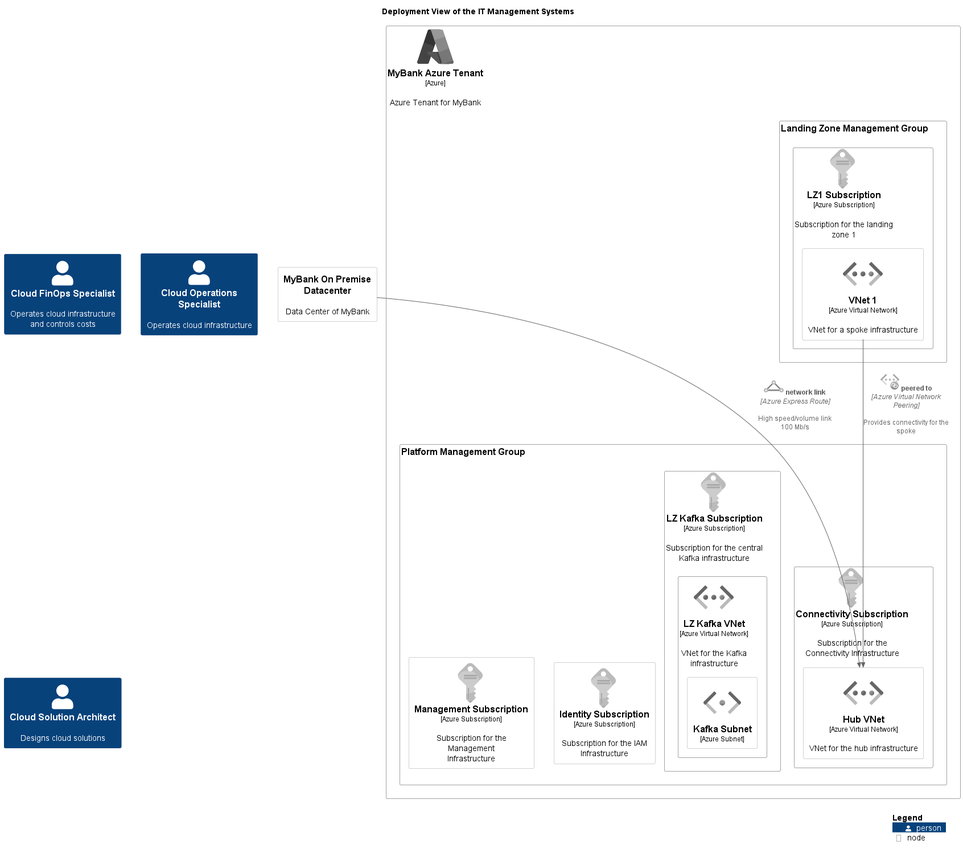
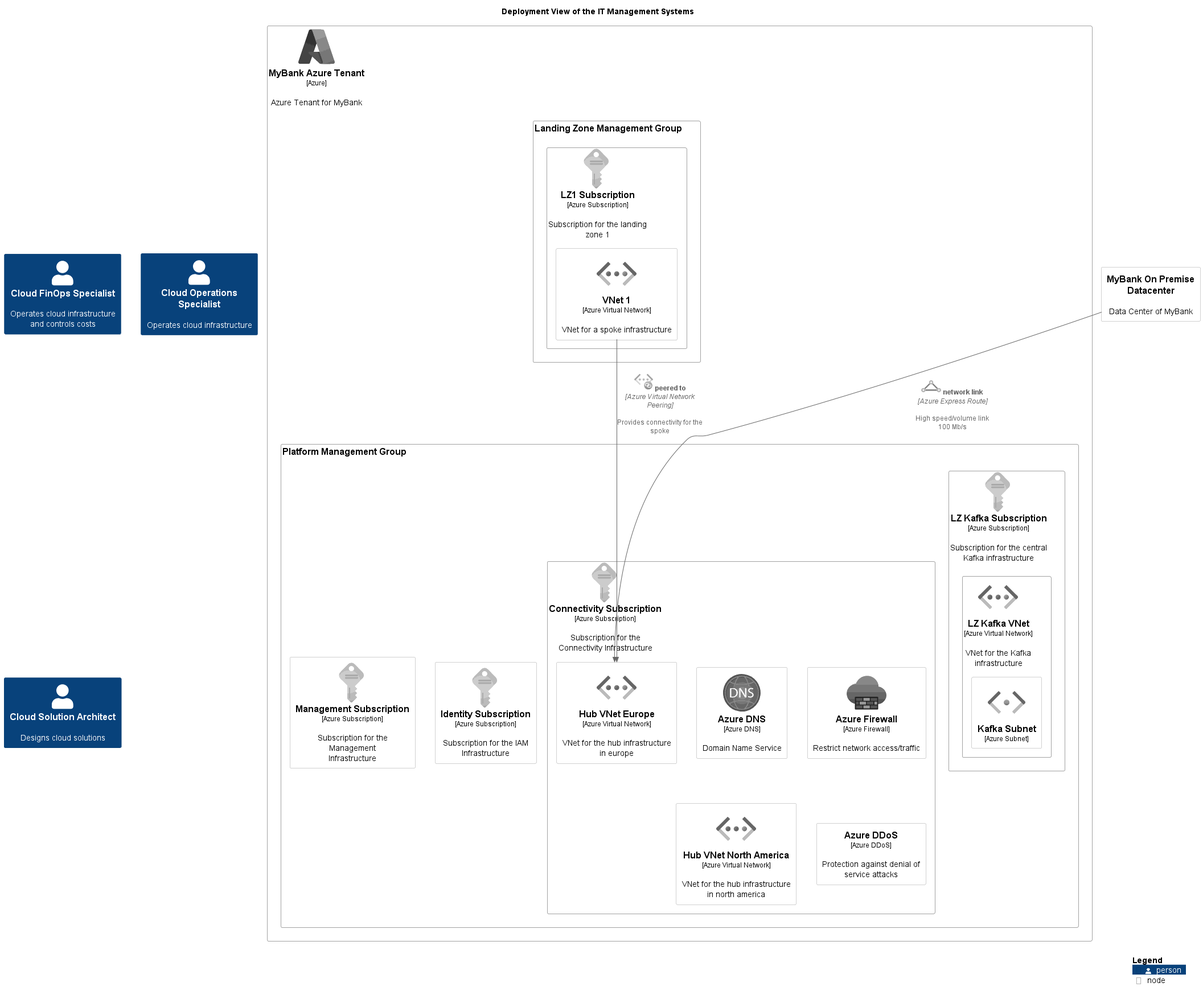
updated model

diff --git a/docs/reports/elements-report.md b/docs/reports/elements-report.md
@@ -8,11 +8,14 @@
 ----|-----|------|---------|-------------|-------|------
  :mybank.data-management/context-boundary-contained-in-mybank-plc | contained-in | :contained-in |  |  |  | 
  :mybank.data-management/big-data-analytics-system | Big Data Analytics | :system |  | Advanced analytics for predictive modeling. | Java, Hadoop, Spark | 
+ :mybank.it-management.azure/alz1-vnet1-contained-in-alz1-subscription | contained-in | :contained-in |  |  |  | 
  :mybank.data-management/big-data-analytics-system-contained-in-context-boundary | contained-in | :contained-in |  |  |  | 
- :mybank.it-management.azure/lz1-vnet1 | VNet 1 | :node |  | VNet for a spoke infrastructure | Azure Virtual Network | #{"generic" "cloud"}
+ :mybank.it-management.azure/plz-kafka-subscription-contained-in-platform-management-group | contained-in | :contained-in |  |  |  | 
  :mybank.organization.hr/recruiting-contained-in-human-resources | contained-in | :contained-in |  |  |  | 
  :mybank.digital-banking/mobile-app-contained-in-internet-banking-system | contained-in | :contained-in |  |  |  | 
+ :mybank.it-management.azure/landing-zone-management-group | Landing Zone Management Group | :node |  |  |  | 
  :mybank.security/disaster-recovery-system | Disaster Recovery | :system |  | Ensures business continuity in case of a disaster. | AWS Backup, DRaaS | 
+ :mybank.it-management.azure/plz-kafka-subscription | LZ Kafka Subscription | :node |  | Subscription for the central Kafka infrastructure | Azure Subscription | #{"cloud" "platform"}
  :mybank/email-system | E-mail System | :system |  | The internal Microsoft Exchange email system. |  | 
  :mybank.digital-banking/database | Database | :container | :database | Stores user registration, authentication, and access logs. | Datomic | 
  :mybank.financial-management/expense-management-system | Expense Management | :system |  | Tracks and manages expenses. | Concur | 
@@ -26,13 +29,13 @@
  :mybank.project-management/dev-platforms | Development Platforms | :system |  | Tools for software development, testing, and deployment. | Jenkins, GitLab | 
  :mybank.customer-channels/contact-center-system-contained-in-context-boundary | contained-in | :contained-in |  |  |  | 
  :mybank.payment/payment-gateway-system-uses-transaction-processing-system | validates and processes payments using | :request |  |  |  | 
- :mybank.it-management.azure/hub-vnet | Hub VNet | :node |  | VNet for the hub infrastructure | Azure Virtual Network | #{"cloud" "platform"}
  :mybank.it-management/aws-unit | AWS Platform | :org-unit |  | Responsible for the AWS platform. |  | 
  :mybank.it-management/cloud-operations-specialist-role-in-aws-unit | role in | :role-in |  | Operates the AWS platform |  | 
+ :mybank.it-management.azure/alz1-subscription | LZ1 Subscription | :node |  | Subscription for the landing zone 1 | Azure Subscription | #{"cloud" "platform"}
+ :mybank.it-management.azure/connectivity-subscription | Connectivity Subscription | :node |  | Subscription for the Connectivity Infrastructure | Azure Subscription | #{"cloud" "platform"}
  :mybank.digital-banking/digital-wallets-system | Digital Wallets | :system |  | Supports digital wallet integration and mobile payments. | Node.js and Express | 
  :mybank.concepts/customer-performs-transfer | performs | :rel |  |  |  | 
  :mybank.digital-banking/context-boundary | Digital Banking | :context-boundary |  | Enables online and mobile banking services for customers. |  | 
- :mybank.it-management.azure/platform-management-group | Platform Management Group | :node |  |  |  | 
  :mybank.security/identity-access-management-system | Identity and Access Management (IAM) | :system |  | Manages secure access to systems and data. | OAuth 2.0, OpenID Connect | 
  :mybank.digital-banking/api-application-uses-email-system | sends e-mail using | :request |  |  |  | 
  :mybank.compliance/risk-management-system-contained-in-context-boundary | contained-in | :contained-in |  |  |  | 
@@ -69,7 +72,7 @@
  :mybank.project-management/dev-platforms-contained-in-context-boundary | contained-in | :contained-in |  |  |  | 
  :mybank.concepts/transfer-between-account | between | :rel |  |  |  | 
  :mybank.concepts/customer-has-account | has | :has |  |  |  | 
- :mybank.it-management.azure/lz1-subscription-contained-in-landing-zone-management-group | contained-in | :contained-in |  |  |  | 
+ :mybank.it-management.azure/dns-contained-in-connectivity-subscription | contained-in | :contained-in |  |  |  | 
  :mybank.it-management.azure/management-subscription | Management Subscription | :node |  | Subscription for the Management Infrastructure | Azure Subscription | #{"cloud" "platform"}
  :mybank.organization/corporate-customers | Corporate Customers | :org-unit |  |  |  | 
  :mybank.it-management/cloud-solution-architect-role-in-aws-unit | role in | :role-in |  | Architects solutions on the AWS platform |  | 
@@ -94,11 +97,10 @@
  :mybank.organization/my-bank-organization | My Bank | :organization |  | My Bank Company |  | 
  :mybank.customer-channels/context-boundary-contained-in-mybank-plc | contained-in | :contained-in |  |  |  | 
  :mybank.it-management/context-boundary | IT Management | :context-boundary |  | Manages IT infrastructure, cloud resources, and system monitoring. |  | 
- :mybank.it-management.azure/lz-kafka-vnet | LZ Kafka VNet | :node |  | VNet for the Kafka infrastructure | Azure Virtual Network | #{"cloud" "platform"}
  :mybank/integration-middleware-context-contained-in-mybank-plc | contained-in | :contained-in |  |  |  | 
  :mybank.it-management/azure-unit-responsible-for-azure-tenant | responsible for | :responsible-for |  |  |  | 
+ :mybank.it-management.azure/hub-vnet-europe | Hub VNet Europe | :node |  | VNet for the hub infrastructure in europe | Azure Virtual Network | #{"cloud" "platform"}
  :mybank.compliance/fraud | Fraud | :org-unit |  |  |  | 
- :mybank.it-management.azure/lz-kafka-subscription | LZ Kafka Subscription | :node |  | Subscription for the central Kafka infrastructure | Azure Subscription | #{"cloud" "platform"}
  :mybank.integration-middleware/api-gateway-contained-in-integration-middleware-context | contained-in | :contained-in |  |  |  | 
  :mybank.infrastructure-management/system-monitoring-system | System Monitoring | :system |  | Monitors system performance and health. | Nagios, Prometheus | 
  :mybank.core-banking/transaction-processing-system-contained-in-context-boundary | contained-in | :contained-in |  |  |  | 
@@ -113,13 +115,12 @@
  :mybank.project-management/devops-engineer | DevOps Engineer | :person |  | Develops and operates software systems. |  | 
  :mybank.digital-banking/internet-banking-system-uses-loan-management-system | fetches loan details and payment status from | :request |  |  |  | 
  :mybank.it-management/cloud-operations-specialist | Cloud Operations Specialist | :person |  | Operates cloud infrastructure |  | 
- :mybank.it-management.azure/lz-kafka-subnet-contained-in-lz-kafka-vnet | contained-in | :contained-in |  |  |  | 
  :mybank.digital-banking/accounts-summary-controller-contained-in-api-application | contained-in | :contained-in |  |  |  | 
  :mybank.core-banking/loan-management-system-uses-account-management-system | retrieves customer account information from | :request |  |  |  | 
- :mybank.it-management.azure/lz1-subscription | LZ1 Subscription | :node |  | Subscription for the landing zone 1 | Azure Subscription | #{"cloud" "platform"}
+ :mybank.it-management.azure/firewall-contained-in-connectivity-subscription | contained-in | :contained-in |  |  |  | 
+ :mybank.it-management.azure/plz-kafka-subnet-contained-in-plz-kafka-vnet | contained-in | :contained-in |  |  |  | 
  :mybank.it-management.azure/landing-zone-management-group-contained-in-mybank-tenant | contained-in | :contained-in |  |  |  | 
  :mybank.it-management/cloud-operations-specialist-role-in-azure-unit | role in | :role-in |  | Operates the Azure platform |  | 
- :mybank.concepts/account | Account | :concept |  |  |  | 
  :mybank.digital-banking/sign-in-controller | Sign In Controller | :component |  | Allows users to sign in to the banking system. | Clojure namespace | 
  :mybank/backoffice-staff-uses-loan-management-system | processes loan applications and updates loan status using | :rel |  |  |  | 
  :mybank.compliance/compliance-system | Compliance System | :system |  | Ensures operations comply with regulations. | Java, Spring Boot | 
@@ -136,9 +137,11 @@
  :mybank.organization/corporate-customers-contained-in-my-bank-organization | contained-in | :contained-in |  |  |  | 
  :mybank.compliance/context-boundary-contained-in-mybank-plc | contained-in | :contained-in |  |  |  | 
  :mybank.digital-banking/sign-in-controller-contained-in-api-application | contained-in | :contained-in |  |  |  | 
- :mybank.it-management.azure/connectivity-subscription | Connectivity Subscription | :node |  | Subscription for the Connectivity Infrastructure | Azure Subscription | #{"cloud" "platform"}
+ :mybank.it-management.azure/alz1-vnet1 | VNet 1 | :node |  | VNet for a spoke infrastructure | Azure Virtual Network | #{"generic" "cloud"}
  :mybank.digital-banking/single-page-app | Single-Page Application | :container |  | Provides internet banking functionality to customers via their web browser. | ClojureScript and Re-Frame | 
  :mybank.digital-banking/web-app | Web Application | :container |  | Delivers the static content and the internet banking single-page application. | Clojure and Luminus | 
+ :mybank.concepts/account | Account | :concept |  | Records the financial transactions between a customer and a bank |  | 
+ :mybank.it-management.azure/hub-vnet-north-america-contained-in-connectivity-subscription | contained-in | :contained-in |  |  |  | 
  :mybank.customer-channels/atm-uses-transaction-processing-system | validates transaction | :rel |  |  |  | 
  :mybank.infrastructure-management/cloud-services-system-contained-in-context-boundary | contained-in | :contained-in |  |  |  | 
  :mybank.digital-banking/api-application | API Application | :container |  | Provides internet banking functionality via a RESTful JSON/HTTPS API. | Clojure and Liberator | 
@@ -147,20 +150,18 @@
  :mybank.user-role/backoffice-staff | Backoffice Staff | :person |  | Administration and support staff within the bank. |  | 
  :mybank.it-management/azure-unit | Azure Platform | :org-unit |  | Responsible for the Azure platform. |  | 
  :mybank.it-management/it-management-org | IT Management | :org-unit |  | Responsible for the IT platform of MyBank |  | 
+ :mybank.it-management.azure/ddos-protection | Azure DDoS | :node |  | Protection against denial of service attacks | Azure DDoS | #{"cloud" "platform"}
  :mybank.it-management.azure/identity-subscription-contained-in-platform-management-group | contained-in | :contained-in |  |  |  | 
  :mybank.investments/investments-org | Investments | :org-unit |  |  |  | 
  :mybank.organization/human-resources | Human Resources | :org-unit |  | Central management of human resources |  | 
  :mybank.it-management/cloud-solution-architect | Cloud Solution Architect | :person |  | Designs cloud solutions |  | 
  :mybank.digital-banking/sign-in-controller-uses-security-component | uses | :request |  |  |  | 
- :mybank.it-management.azure/mybank-tenant | MyBank Azure Tenant | :node |  | Azure Tenant for MyBank | Azure | #{"cloud" "platform"}
  :mybank.digital-banking/api-application-contained-in-internet-banking-system | contained-in | :contained-in |  |  |  | 
- :mybank.it-management.azure/spoke-vnet1-peered-to-hub-vnet | peered to | :link |  | Provides connectivity for the spoke | Azure Virtual Network Peering | #{"cloud" "platform"}
  :mybank.core-banking/account-management-system-contained-in-context-boundary | contained-in | :contained-in |  |  |  | 
- :mybank.it-management.azure/lz1-vnet1-contained-in-lz1-subscription | contained-in | :contained-in |  |  |  | 
  :mybank.digital-banking/core-banking-systems-facade-contained-in-api-application | contained-in | :contained-in |  |  |  | 
  :mybank.data-management/context-boundary | Data Management and Analytics | :context-boundary |  | Manages data storage, warehousing, and analytics. |  | 
- :mybank.it-management.azure/landing-zone-management-group | Landing Zone Management Group | :node |  |  |  | 
  :mybank.it-management/aws-unit-contained-in-it-management-org | contained-in | :contained-in |  |  |  | 
+ :mybank.it-management.azure/alz1-subscription-contained-in-landing-zone-management-group | contained-in | :contained-in |  |  |  | 
  :mybank.digital-banking/security-component | Security Component | :component |  | Handles authentication, password changes, etc. | Clojure namespace | 
  :mybank.concepts/corporate-customer-is-a-customer | is a | :is-a |  |  |  | 
  :mybank.organization.personal-customers/internet-banking-contained-in-personal-customers | contained-in | :contained-in |  |  |  | 
@@ -171,6 +172,7 @@
  :mybank.digital-banking/api-application-uses-database | reads from and writes to | :request |  |  | Datalog | 
  :mybank.payment/payment-gateway-system | Payment Gateway | :system |  | Facilitates credit/debit card transactions. | Java, Spring Boot | 
  :mybank.digital-banking/single-page-app-calls-sign-in-controller | makes API calls to | :request |  |  | Transit/HTTPS | 
+ :mybank.it-management.onprem/data-center-europe | MyBank On Premise Datacenter | :node |  | Data Center of MyBank |  | #{"onprem" "platform"}
  :mybank.financial-management/general-ledger-system-contained-in-context-boundary | contained-in | :contained-in |  |  |  | 
  :mybank.organization/marketing | Marketing | :org-unit |  |  |  | 
  :mybank.concepts/personal-customer-is-a-customer | is a | :is-a |  |  |  | 
@@ -182,17 +184,17 @@
  :mybank.project-management/project-management-tools | Project Management Tools | :system |  | Platforms for planning, executing, and tracking projects. | Jira | 
  :mybank.digital-banking/internet-banking-system-uses-email-system | sends e-mail using | :request |  |  |  | 
  :mybank.financial-management/context-boundary | Financial Management | :context-boundary |  | Handles financial accounting, treasury, and expense management. |  | 
+ :mybank.it-management.azure/ddos-protection-contained-in-connectivity-subscription | contained-in | :contained-in |  |  |  | 
  :mybank.concepts/deposit | Deposit | :concept |  | Puts money on account |  | 
  :mybank.core-banking/loan-management-system | Loan Management | :system |  | Manages loan products, applications, and repayments. | Java, Spring Boot | 
  :mybank.concepts/mortgage-is-a-loan | is a | :is-a |  |  |  | 
  :mybank.integration-middleware/esb-contained-in-integration-middleware-context | contained-in | :contained-in |  |  |  | 
+ :mybank.it-management.azure/plz-kafka-subnet | Kafka Subnet | :node |  |  | Azure Subnet | #{"cloud" "platform"}
  :mybank.user-role/corporate-customer | Corporate Customer | :person |  | Corporate Customer of MyBank. |  | 
  :mybank.payment/ach-system | ACH System | :system |  | Processes ACH transactions for direct deposits and bill payments. | Java, Spring Boot, Spring Batch | 
  :mybank.compliance/risk-manager-role-in-risk-management | function | :role-in |  |  |  | 
  :mybank.concepts/corporate-customer | Corporate Customer | :concept |  | An organization requesting services around money |  | 
  :mybank.concepts/withdrawal-from-account | from | :rel |  |  |  | 
- :mybank.it-management.azure/lz-kafka-subscription-contained-in-platform-management-group | contained-in | :contained-in |  |  |  | 
- :mybank.it-management.onprem/data-center | MyBank On Premise Datacenter | :node |  | Data Center of MyBank |  | #{"onprem" "platform"}
  :mybank.human-resources/hris-contained-in-context-boundary | contained-in | :contained-in |  |  |  | 
  :mybank.it-management/cloud-finops-specialist-role-in-aws-unit | role in | :role-in |  | Operations and cost control for the AWS platform |  | 
  :mybank.compliance/fraud-contained-in-compliance-org | contained-in | :contained-in |  |  |  | 
@@ -203,6 +205,7 @@
  :mybank.compliance/fraud-detection-system-contained-in-context-boundary | contained-in | :contained-in |  |  |  | 
  :mybank/email-system-sends-mail-to-personal-customer | sends e-mail to | :send |  |  |  | 
  :mybank.concepts/deposit-to-account | to | :rel |  |  |  | 
+ :mybank.it-management.azure/plz-kafka-vnet | LZ Kafka VNet | :node |  | VNet for the Kafka infrastructure | Azure Virtual Network | #{"cloud" "platform"}
  :mybank.compliance/aml-system | Anti-Money Laundering (AML) System | :system |  | Monitors and prevents money laundering activities. | Python, Scikit-learn | 
  :mybank.project-management/context-boundary | Project Management and Development | :context-boundary |  | Tools for managing projects and software development. |  | 
  :mybank.security/cybersecurity-system-contained-in-context-boundary | contained-in | :contained-in |  |  |  | 
@@ -210,34 +213,38 @@
  :mybank.concepts/bank-has-customer | has | :has |  |  |  | 
  :mybank.concepts/customer-performs-withdrawal | performs | :rel |  |  |  | 
  :mybank.payment/context-boundary-contained-in-mybank-plc | contained-in | :contained-in |  |  |  | 
+ :mybank.it-management.azure/firewall | Azure Firewall | :node |  | Restrict network access/traffic | Azure Firewall | #{"cloud" "platform"}
  :mybank.it-management/cloud-finops-specialist-role-in-azure-unit | role in | :role-in |  | Operations and cost control for the Azure platform |  | 
  :mybank.data-management/business-intelligence-system | Business Intelligence (BI) | :system |  | Provides tools for reporting and data analysis. | Tableau, Python | 
  :mybank.concepts/bank-has-account | provides | :has |  |  |  | 
  :mybank.organization/human-resources-contained-in-my-bank-organization | contained-in | :contained-in |  |  |  | 
+ :mybank.it-management.azure/alz1-vnet1-peered-to-hub-vnet | peered to | :link |  | Provides connectivity for the spoke | Azure Virtual Network Peering | #{"cloud" "platform"}
  :mybank/customer-service-staff-uses-email-system | sends and receives customer communication using | :rel |  |  |  | 
+ :mybank.it-management.azure/dns | Azure DNS | :node |  | Domain Name Service | Azure DNS | #{"cloud" "platform"}
  :mybank.core-banking/context-boundary-contained-in-mybank-plc | contained-in | :contained-in |  |  |  | 
  :mybank.digital-banking/email-component | E-mail Component | :component |  | Sends e-mails to users. | Clojure namespace | 
  :mybank.concepts/customer-requests-loan | requests | :rel |  |  |  | 
  :mybank.digital-banking/internet-banking-system-uses-payment-gateway-system | processes customer payments using | :request |  |  |  | 
- :mybank.it-management.onprem/data-center-links-to-hub-vnet | network link | :link |  | High speed/volume link 100 Mb/s | Azure Express Route | #{"cloud" "platform"}
  :mybank.infrastructure-management/system-monitoring-system-contained-in-context-boundary | contained-in | :contained-in |  |  |  | 
  :mybank.digital-banking/single-page-app-calls-accounts-summary-controller | makes API calls to | :request |  |  | Transit/HTTPS | 
  :mybank.digital-banking/email-component-contained-in-api-application | contained-in | :contained-in |  |  |  | 
  :mybank.human-resources/context-boundary-contained-in-mybank-plc | contained-in | :contained-in |  |  |  | 
+ :mybank.it-management.azure/platform-management-group | Platform Management Group | :node |  |  |  | 
+ :mybank.it-management.azure/hub-vnet-north-america | Hub VNet North America | :node |  | VNet for the hub infrastructure in north america | Azure Virtual Network | #{"cloud" "platform"}
  :mybank.security/context-boundary | Security | :context-boundary |  | Ensures the security of systems and data. |  | 
- :mybank.it-management.azure/lz-kafka-subnet | Kafka Subnet | :node |  |  | Azure Subnet | #{"cloud" "platform"}
  :mybank.data-management/business-intelligence-system-contained-in-context-boundary | contained-in | :contained-in |  |  |  | 
+ :mybank.it-management.azure/plz-kafka-vnet-contained-in-plz-kafka-subscription | contained-in | :contained-in |  |  |  | 
  :mybank.it-management.azure/management-subscription-contained-in-platform-management-group | contained-in | :contained-in |  |  |  | 
  :mybank.customer-channels/atm | ATM | :system |  | Allows customers to withdraw cash. | C++, Java | 
  :mybank.customer-channels/contact-center-system | Contact Center | :system |  | Telephony and customer support systems for call centers. | Genesys, Avaya | 
  :mybank.security/cybersecurity-system | Cybersecurity | :system |  | Protects against cyber threats. | Snort, Suricata | 
+ :mybank.it-management.azure/mybank-tenant | MyBank Azure Tenant | :node |  | Azure Tenant for MyBank | Azure | #{"cloud" "platform"}
  :mybank.compliance/risk-management-system-uses-transaction-processing-system | fetches transaction history and customer data from | :request |  |  |  | 
  :mybank.compliance/aml-system-contained-in-context-boundary | contained-in | :contained-in |  |  |  | 
  :mybank.digital-banking/single-page-app-calls-reset-password-controller | makes API calls to | :request |  |  | Transit/HTTPS | 
  :mybank.concepts/bank-has-loan | provides | :has |  |  |  | 
  :mybank.payment/swift-rtgs-neft-system | SWIFT/RTGS/NEFT | :system |  | Handles interbank transfers and settlements. | Java, Apache Camel | 
  :mybank.digital-banking/mobile-app | Mobile App | :container |  | Provides limited internet banking functionality to customers via mobile devices. | ClojureScript and Reagent | 
- :mybank.it-management.azure/hub-vnet-contained-in-connectivity-subscription | contained-in | :contained-in |  |  |  | 
  :mybank.human-resources/talent-management-system-contained-in-context-boundary | contained-in | :contained-in |  |  |  | 
  :mybank.organization/personal-customers | Personal Customers | :org-unit |  |  |  | 
  :mybank.security/disaster-recovery-system-contained-in-context-boundary | contained-in | :contained-in |  |  |  | 
@@ -250,10 +257,10 @@
  :mybank.investments/asset-management-org | Asset Management | :org-unit |  |  |  | 
  :mybank.compliance/compliance-system-contained-in-context-boundary | contained-in | :contained-in |  |  |  | 
  :mybank.digital-banking/internet-banking-system | Internet Banking System | :system |  | Allows customers to view information about their bank accounts and make payments. |  | 
- :mybank.it-management.azure/lz-kafka-vnet-contained-in-lz-kafka-subscription | contained-in | :contained-in |  |  |  | 
  :mybank.organization/marketing-contained-in-my-bank-organization | contained-in | :contained-in |  |  |  | 
  :mybank.human-resources/talent-management-system | Talent Management | :system |  | Tools for recruitment, training, and performance management. | SAP SuccessFactors | 
  :mybank.user-role/personal-customer-uses-mobile-app | views account balances and makes payments using | :request |  |  |  | 
+ :mybank.it-management.azure/hub-vnet-europe-contained-in-connectivity-subscription | contained-in | :contained-in |  |  |  | 
  :mybank.project-management/project-management-tools-contained-in-context-boundary | contained-in | :contained-in |  |  |  | 
  :mybank.user-role/personal-customer-asks-customer-service-staff | asks questions to | :rel |  |  |  | 
  :mybank.user-role/personal-customer-uses-single-page-app | views account balances and makes payments using | :request |  |  |  | 
@@ -262,4 +269,5 @@
  :mybank.customer-channels/context-boundary | Customer Channels | :context-boundary |  | Interfaces for customer interaction, including branch systems, ATMs, and call centers. |  | 
  :mybank.compliance/regulations | Regulations | :org-unit |  |  |  | 
  :mybank.compliance/regulations-contained-in-compliance-org | contained-in | :contained-in |  |  |  | 
+ :mybank.it-management.onprem/data-center-europe-links-to-hub-vnet | network link | :link |  | High speed/volume link 100 Mb/s | Azure Express Route | #{"cloud" "platform"}
 

diff --git a/docs/mybank/it-management/deployment-view.md b/docs/mybank/it-management/deployment-view.md
@@ -9,25 +9,29 @@ Shows the nodes and containers of the domain IT management infrastructure.
 ## Nodes
 | Name | Technology | Description |
 |---|---|---|
+| [Azure DDoS](../../mybank/it-management/azure/ddos-protection.md) | Azure DDoS | Protection against denial of service attacks |
+| [Azure DNS](../../mybank/it-management/azure/dns.md) | Azure DNS | Domain Name Service |
+| [Azure Firewall](../../mybank/it-management/azure/firewall.md) | Azure Firewall | Restrict network access/traffic |
 | [Connectivity Subscription](../../mybank/it-management/azure/connectivity-subscription.md) | Azure Subscription | Subscription for the Connectivity Infrastructure |
-| [Hub VNet](../../mybank/it-management/azure/hub-vnet.md) | Azure Virtual Network | VNet for the hub infrastructure |
+| [Hub VNet Europe](../../mybank/it-management/azure/hub-vnet-europe.md) | Azure Virtual Network | VNet for the hub infrastructure in europe |
+| [Hub VNet North America](../../mybank/it-management/azure/hub-vnet-north-america.md) | Azure Virtual Network | VNet for the hub infrastructure in north america |
 | [Identity Subscription](../../mybank/it-management/azure/identity-subscription.md) | Azure Subscription | Subscription for the IAM Infrastructure |
-| [Kafka Subnet](../../mybank/it-management/azure/lz-kafka-subnet.md) | Azure Subnet |  |
+| [Kafka Subnet](../../mybank/it-management/azure/plz-kafka-subnet.md) | Azure Subnet |  |
 | [Landing Zone Management Group](../../mybank/it-management/azure/landing-zone-management-group.md) |  |  |
-| [LZ Kafka Subscription](../../mybank/it-management/azure/lz-kafka-subscription.md) | Azure Subscription | Subscription for the central Kafka infrastructure |
-| [LZ Kafka VNet](../../mybank/it-management/azure/lz-kafka-vnet.md) | Azure Virtual Network | VNet for the Kafka infrastructure |
-| [LZ1 Subscription](../../mybank/it-management/azure/lz1-subscription.md) | Azure Subscription | Subscription for the landing zone 1 |
+| [LZ Kafka Subscription](../../mybank/it-management/azure/plz-kafka-subscription.md) | Azure Subscription | Subscription for the central Kafka infrastructure |
+| [LZ Kafka VNet](../../mybank/it-management/azure/plz-kafka-vnet.md) | Azure Virtual Network | VNet for the Kafka infrastructure |
+| [LZ1 Subscription](../../mybank/it-management/azure/alz1-subscription.md) | Azure Subscription | Subscription for the landing zone 1 |
 | [Management Subscription](../../mybank/it-management/azure/management-subscription.md) | Azure Subscription | Subscription for the Management Infrastructure |
 | [MyBank Azure Tenant](../../mybank/it-management/azure/mybank-tenant.md) | Azure | Azure Tenant for MyBank |
-| [MyBank On Premise Datacenter](../../mybank/it-management/onprem/data-center.md) |  | Data Center of MyBank |
+| [MyBank On Premise Datacenter](../../mybank/it-management/onprem/data-center-europe.md) |  | Data Center of MyBank |
 | [Platform Management Group](../../mybank/it-management/azure/platform-management-group.md) |  |  |
-| [VNet 1](../../mybank/it-management/azure/lz1-vnet1.md) | Azure Virtual Network | VNet for a spoke infrastructure |
+| [VNet 1](../../mybank/it-management/azure/alz1-vnet1.md) | Azure Virtual Network | VNet for a spoke infrastructure |
 
 ## Links
 | Name | From | To | Technology | Description |
 |---|---|---|---|---|
-| network link | MyBank On Premise Datacenter | Hub VNet | Azure Express Route | High speed/volume link 100 Mb/s |
-| peered to | VNet 1 | Hub VNet | Azure Virtual Network Peering | Provides connectivity for the spoke |
+| network link | MyBank On Premise Datacenter | Hub VNet Europe | Azure Express Route | High speed/volume link 100 Mb/s |
+| peered to | VNet 1 | Hub VNet Europe | Azure Virtual Network Peering | Provides connectivity for the spoke |
 
 
 (generated with docs/views/deployment-view.md.cmb)

diff --git a/docs/mybank/deployment-view.md b/docs/mybank/deployment-view.md
@@ -9,25 +9,29 @@ shows the deployment of the Azure platform
 ## Nodes
 | Name | Technology | Description |
 |---|---|---|
+| [Azure DDoS](../mybank/it-management/azure/ddos-protection.md) | Azure DDoS | Protection against denial of service attacks |
+| [Azure DNS](../mybank/it-management/azure/dns.md) | Azure DNS | Domain Name Service |
+| [Azure Firewall](../mybank/it-management/azure/firewall.md) | Azure Firewall | Restrict network access/traffic |
 | [Connectivity Subscription](../mybank/it-management/azure/connectivity-subscription.md) | Azure Subscription | Subscription for the Connectivity Infrastructure |
-| [Hub VNet](../mybank/it-management/azure/hub-vnet.md) | Azure Virtual Network | VNet for the hub infrastructure |
+| [Hub VNet Europe](../mybank/it-management/azure/hub-vnet-europe.md) | Azure Virtual Network | VNet for the hub infrastructure in europe |
+| [Hub VNet North America](../mybank/it-management/azure/hub-vnet-north-america.md) | Azure Virtual Network | VNet for the hub infrastructure in north america |
 | [Identity Subscription](../mybank/it-management/azure/identity-subscription.md) | Azure Subscription | Subscription for the IAM Infrastructure |
-| [Kafka Subnet](../mybank/it-management/azure/lz-kafka-subnet.md) | Azure Subnet |  |
+| [Kafka Subnet](../mybank/it-management/azure/plz-kafka-subnet.md) | Azure Subnet |  |
 | [Landing Zone Management Group](../mybank/it-management/azure/landing-zone-management-group.md) |  |  |
-| [LZ Kafka Subscription](../mybank/it-management/azure/lz-kafka-subscription.md) | Azure Subscription | Subscription for the central Kafka infrastructure |
-| [LZ Kafka VNet](../mybank/it-management/azure/lz-kafka-vnet.md) | Azure Virtual Network | VNet for the Kafka infrastructure |
-| [LZ1 Subscription](../mybank/it-management/azure/lz1-subscription.md) | Azure Subscription | Subscription for the landing zone 1 |
+| [LZ Kafka Subscription](../mybank/it-management/azure/plz-kafka-subscription.md) | Azure Subscription | Subscription for the central Kafka infrastructure |
+| [LZ Kafka VNet](../mybank/it-management/azure/plz-kafka-vnet.md) | Azure Virtual Network | VNet for the Kafka infrastructure |
+| [LZ1 Subscription](../mybank/it-management/azure/alz1-subscription.md) | Azure Subscription | Subscription for the landing zone 1 |
 | [Management Subscription](../mybank/it-management/azure/management-subscription.md) | Azure Subscription | Subscription for the Management Infrastructure |
 | [MyBank Azure Tenant](../mybank/it-management/azure/mybank-tenant.md) | Azure | Azure Tenant for MyBank |
-| [MyBank On Premise Datacenter](../mybank/it-management/onprem/data-center.md) |  | Data Center of MyBank |
+| [MyBank On Premise Datacenter](../mybank/it-management/onprem/data-center-europe.md) |  | Data Center of MyBank |
 | [Platform Management Group](../mybank/it-management/azure/platform-management-group.md) |  |  |
-| [VNet 1](../mybank/it-management/azure/lz1-vnet1.md) | Azure Virtual Network | VNet for a spoke infrastructure |
+| [VNet 1](../mybank/it-management/azure/alz1-vnet1.md) | Azure Virtual Network | VNet for a spoke infrastructure |
 
 ## Links
 | Name | From | To | Technology | Description |
 |---|---|---|---|---|
-| network link | MyBank On Premise Datacenter | Hub VNet | Azure Express Route | High speed/volume link 100 Mb/s |
-| peered to | VNet 1 | Hub VNet | Azure Virtual Network Peering | Provides connectivity for the spoke |
+| network link | MyBank On Premise Datacenter | Hub VNet Europe | Azure Express Route | High speed/volume link 100 Mb/s |
+| peered to | VNet 1 | Hub VNet Europe | Azure Virtual Network Peering | Provides connectivity for the spoke |
 
 
 (generated with docs/views/deployment-view.md.cmb)

diff --git a/docs/mybank/it-management/azure/connectivity-subscription.md b/docs/mybank/it-management/azure/connectivity-subscription.md
@@ -5,7 +5,11 @@ Subscription for the Connectivity Infrastructure
 # Contained Nodes
 Name | Description 
 ---|---
-[Hub VNet](../../../mybank/it-management/azure/hub-vnet.md) | VNet for the hub infrastructure
+[Azure DNS](../../../mybank/it-management/azure/dns.md) | Domain Name Service
+[Azure Firewall](../../../mybank/it-management/azure/firewall.md) | Restrict network access/traffic
+[Hub VNet North America](../../../mybank/it-management/azure/hub-vnet-north-america.md) | VNet for the hub infrastructure in north america
+[Azure DDoS](../../../mybank/it-management/azure/ddos-protection.md) | Protection against denial of service attacks
+[Hub VNet Europe](../../../mybank/it-management/azure/hub-vnet-europe.md) | VNet for the hub infrastructure in europe
 
 
 (generated with docs/deployment-node.md.cmb)

diff --git a/docs/mybank/it-management/azure/platform-management-group.md b/docs/mybank/it-management/azure/platform-management-group.md
@@ -5,9 +5,9 @@
 # Contained Nodes
 Name | Description 
 ---|---
+[LZ Kafka Subscription](../../../mybank/it-management/azure/plz-kafka-subscription.md) | Subscription for the central Kafka infrastructure
 [Connectivity Subscription](../../../mybank/it-management/azure/connectivity-subscription.md) | Subscription for the Connectivity Infrastructure
 [Identity Subscription](../../../mybank/it-management/azure/identity-subscription.md) | Subscription for the IAM Infrastructure
-[LZ Kafka Subscription](../../../mybank/it-management/azure/lz-kafka-subscription.md) | Subscription for the central Kafka infrastructure
 [Management Subscription](../../../mybank/it-management/azure/management-subscription.md) | Subscription for the Management Infrastructure
 
 

diff --git a/docs/mybank/concepts/bank.md b/docs/mybank/concepts/bank.md
@@ -4,7 +4,7 @@ Organization providing services around money
 # Features
 | Name | Description |
 |---|---|
-| [Account](../../mybank/concepts/account.md) |  |
+| [Account](../../mybank/concepts/account.md) | Records the financial transactions between a customer and a bank |
 | [Customer](../../mybank/concepts/customer.md) | Entity requesting services around money |
 | [Loan](../../mybank/concepts/loan.md) | Lending money from the bank to the customer |
 

diff --git a/docs/mybank/it-management/azure/hub-vnet-europe.md b/docs/mybank/it-management/azure/hub-vnet-europe.md
@@ -1,0 +1,12 @@
+# Hub VNet Europe
+## Description
+VNet for the hub infrastructure in europe
+
+# Links to Nodes
+Name | Description
+---|---
+[VNet 1](../../../mybank/it-management/azure/alz1-vnet1.md) | VNet for a spoke infrastructure
+[MyBank On Premise Datacenter](../../../mybank/it-management/onprem/data-center-europe.md) | Data Center of MyBank
+
+
+(generated with docs/deployment-node.md.cmb)

diff --git a/docs/mybank/it-management/azure/plz-kafka-subscription.md b/docs/mybank/it-management/azure/plz-kafka-subscription.md
@@ -5,7 +5,7 @@ Subscription for the central Kafka infrastructure
 # Contained Nodes
 Name | Description 
 ---|---
-[LZ Kafka VNet](../../../mybank/it-management/azure/lz-kafka-vnet.md) | VNet for the Kafka infrastructure
+[LZ Kafka VNet](../../../mybank/it-management/azure/plz-kafka-vnet.md) | VNet for the Kafka infrastructure
 
 
 (generated with docs/deployment-node.md.cmb)

diff --git a/docs/mybank/glossary.md b/docs/mybank/glossary.md
@@ -5,7 +5,7 @@ describes the relevant concepts of MyBank
 
 ## Entries
 ### [Account](../mybank/concepts/account.md)
-
+Records the financial transactions between a customer and a bank
 ### [Account Management](../mybank/core-banking/account-management-system.md)
 Handles customer accounts, deposits, and withdrawals.
 ### [ACH System](../mybank/payment/ach-system.md)

diff --git a/docs/mybank/it-management/azure/alz1-vnet1.md b/docs/mybank/it-management/azure/alz1-vnet1.md
@@ -5,7 +5,7 @@ VNet for a spoke infrastructure
 # Linked from Nodes
 Name | Description
 ---|---
-[Hub VNet](../../../mybank/it-management/azure/hub-vnet.md) | VNet for the hub infrastructure
+[Hub VNet Europe](../../../mybank/it-management/azure/hub-vnet-europe.md) | VNet for the hub infrastructure in europe
 
 
 (generated with docs/deployment-node.md.cmb)

diff --git a/docs/mybank/it-management/onprem/data-center-europe.md b/docs/mybank/it-management/onprem/data-center-europe.md
@@ -5,7 +5,7 @@ Data Center of MyBank
 # Linked from Nodes
 Name | Description
 ---|---
-[Hub VNet](../../../mybank/it-management/azure/hub-vnet.md) | VNet for the hub infrastructure
+[Hub VNet Europe](../../../mybank/it-management/azure/hub-vnet-europe.md) | VNet for the hub infrastructure in europe
 
 
 (generated with docs/deployment-node.md.cmb)

diff --git a/docs/mybank/it-management/azure/landing-zone-management-group.md b/docs/mybank/it-management/azure/landing-zone-management-group.md
@@ -5,7 +5,7 @@
 # Contained Nodes
 Name | Description 
 ---|---
-[LZ1 Subscription](../../../mybank/it-management/azure/lz1-subscription.md) | Subscription for the landing zone 1
+[LZ1 Subscription](../../../mybank/it-management/azure/alz1-subscription.md) | Subscription for the landing zone 1
 
 
 (generated with docs/deployment-node.md.cmb)
